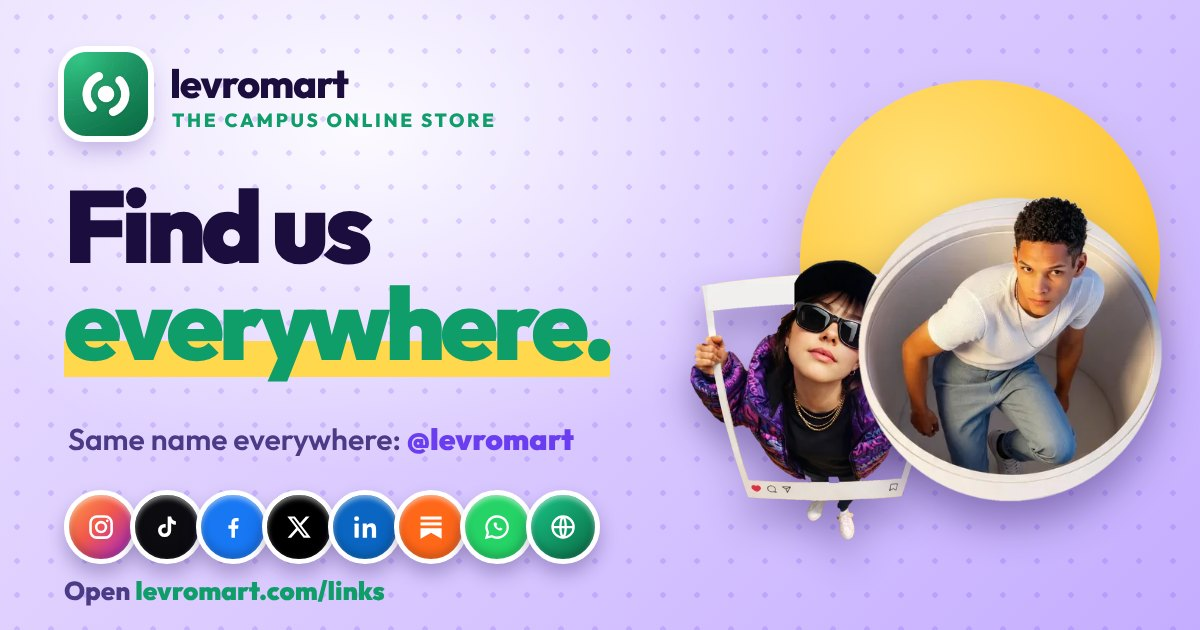
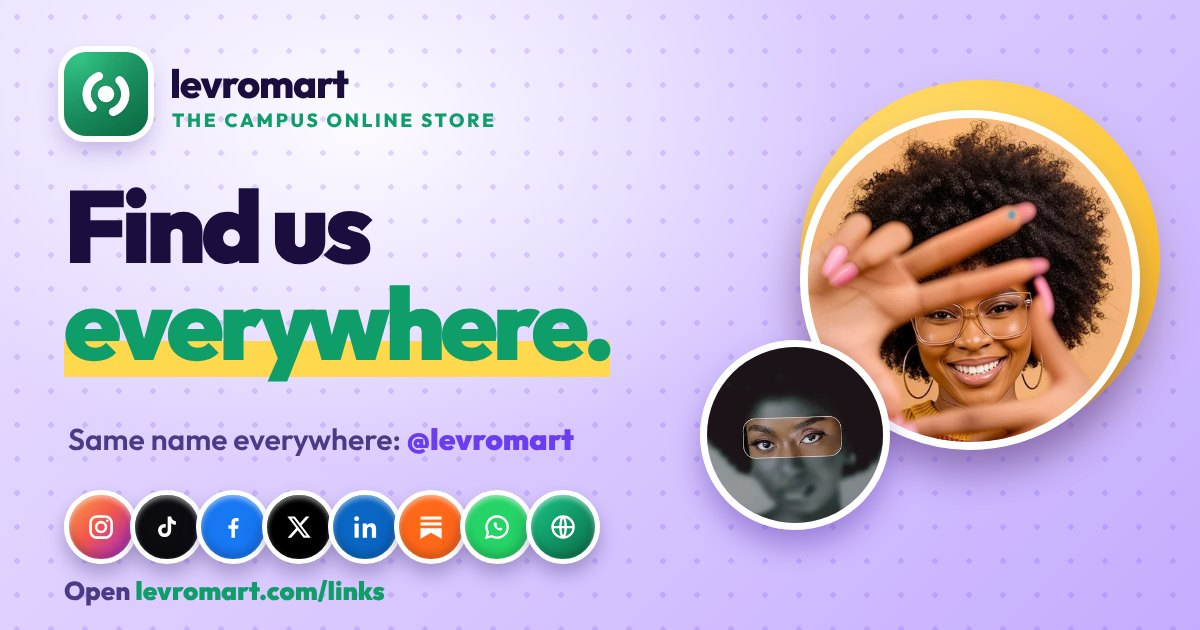
feat(links): use two Black women in the hero and preview; TikTok tile distinct from X
Hero and share image now show the smiling frame-gesture portrait and the
eyes portrait instead of the earlier two photos. TikTok tile gets its
cyan/pink glow so it no longer looks like the plain black X tile.

Claude-Session: https://claude.ai/code/session_01Sdcn3f9ENrvbqNr3mtWk5y

Changed region(s): [[0.555, 0.1508, 0.9867, 0.8746]]

diff --git a/medris-frontend/public/links/index.html b/medris-frontend/public/links/index.html
@@ -55,8 +55,8 @@ a{color:inherit}
 .same-row b{color:var(--purple);font-weight:900}
 .chars{position:absolute;right:12px;bottom:0;width:42%;height:100%;z-index:1;pointer-events:none}
 .chars img{position:absolute;display:block}
-.chars .man{width:68%;right:0;top:12px;filter:drop-shadow(0 10px 10px rgba(30,10,80,.3));animation:bob 5s ease-in-out infinite}
-.chars .girl{width:64%;left:0;bottom:-4px;filter:drop-shadow(0 10px 10px rgba(30,10,80,.3));animation:bob 6s ease-in-out -2s infinite}
+.chars .smile{width:74%;height:auto;aspect-ratio:1;object-fit:cover;border-radius:50%;border:5px solid #fff;right:0;top:14px;box-shadow:0 14px 24px rgba(60,20,150,.35);animation:bob 5s ease-in-out infinite}
+.chars .eyes{width:40%;height:auto;aspect-ratio:1;object-fit:cover;border-radius:50%;border:4px solid #fff;left:-2%;bottom:6px;box-shadow:0 10px 18px rgba(60,20,150,.35);animation:bob 6s ease-in-out -2s infinite;z-index:2}
 .star{position:absolute;z-index:1;width:26px;height:26px;animation:twinkle 3.2s ease-in-out infinite}
 @keyframes bob{0%,100%{transform:translateY(0)}50%{transform:translateY(-7px)}}
 @keyframes twinkle{0%,100%{transform:scale(1) rotate(0)}50%{transform:scale(1.18) rotate(12deg)}}
@@ -87,7 +87,8 @@ a{color:inherit}
 .tile.wide{grid-column:1/-1;min-height:96px;flex-direction:row;align-items:center;justify-content:flex-start;gap:14px}
 .tile.wide strong{font-size:20px}
 .ig{background:linear-gradient(135deg,#ff9a4d,#f2594a 45%,#c2379f 80%,#6b4fd6)}
-.tt{background:linear-gradient(135deg,#2a2a33,#0c0c10)}
+.tt{background:radial-gradient(120px 90px at 12% 100%,rgba(37,244,238,.55),transparent 70%),radial-gradient(130px 100px at 100% 0%,rgba(254,44,85,.65),transparent 70%),linear-gradient(135deg,#1c1030,#0a0714)}
+.tt .ic svg{filter:drop-shadow(2px 2px 0 #fe2c55) drop-shadow(-2px -2px 0 #25f4ee)}
 .fb{background:linear-gradient(135deg,#4c9bff,#1877f2 55%,#0b4cc2)}
 .x{background:linear-gradient(135deg,#3a3a44,#000)}
 .li{background:linear-gradient(135deg,#3b8fe0,#0a66c2 55%,#064a8f)}
@@ -117,8 +118,8 @@ footer a{color:var(--green);font-weight:800;text-decoration:none}
     <p>New brands, vendor spotlights and everything happening on levromart.</p>
         <svg class="star" style="right:44%;top:16px" viewBox="0 0 24 24"><path d="M12 2l2.6 6.4L21 9l-5 4.4L17.2 20 12 16.6 6.8 20 8 13.4 3 9l6.4-.6z" fill="#fff" stroke="#8b7bff" stroke-width="1.6" stroke-linejoin="round"/></svg>
     <div class="chars" aria-hidden="true">
-      <img class="girl" src="/links/girl.webp" alt="" width="230" height="238" loading="eager">
-      <img class="man" src="/links/man.webp" alt="" width="230" height="230" loading="eager">
+      <img class="eyes" src="/links/eyes.webp" alt="" width="150" height="150" loading="eager">
+      <img class="smile" src="/links/smile.webp" alt="" width="220" height="220" loading="eager">
     </div>
   </section>
   <p class="same-row">Same name on every platform: <b>@levromart</b></p>
